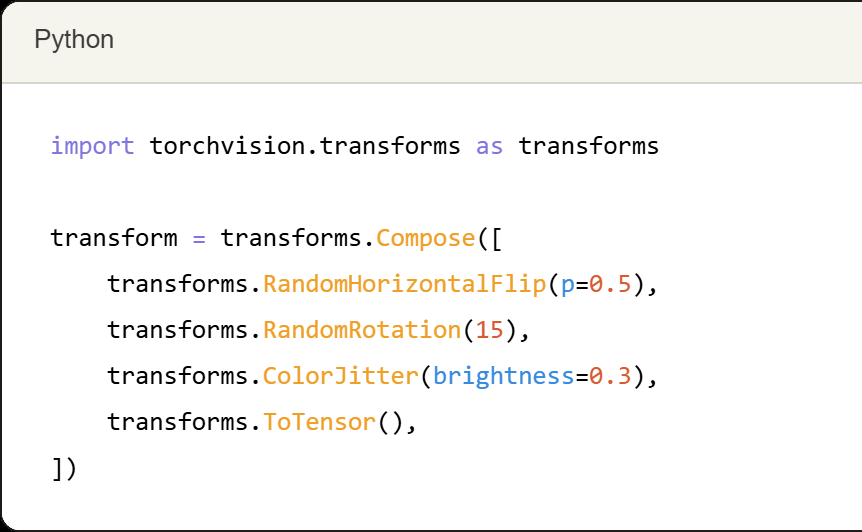
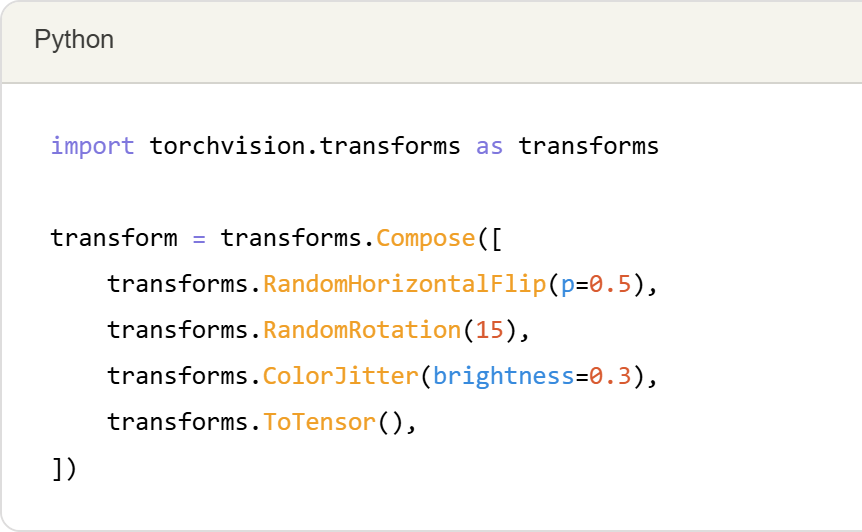
修正官方試題附圖擷取：套用透明遮罩，救回兩張全黑的公式圖
帶 SMask 的圖原本只存底圖，115-1 中級科目二第 2、8 題的公式因此整張是黑的。
擷取時改為合併遮罩並鋪白底；同卷科目三第 41 題的程式碼圖隨之改為白底，內容不變。

Changed region(s): [[0.0, 0.9624, 1.0, 1.0], [0.0, 0.0, 1.0, 0.0301]]

diff --git a/scripts/extract-official.py b/scripts/extract-official.py
@@ -151,9 +151,22 @@ def extract(path):
 
     def save_image(xref, stem_name):
         img = doc.extract_image(xref)
-        fname = f"{stem_name}.{img['ext']}"
+        data, ext = img["image"], img["ext"]
+        if img.get("smask"):
+            # 帶透明遮罩的圖（公式常見）：底圖可能整張是黑的，字形靠遮罩摳出來。
+            # 只存底圖會變成一塊黑，所以套上遮罩、鋪白底後存成 PNG（原尺寸，1pt = 1px）
+            # Pixmap(doc, xref) 可能帶著全不透明的 alpha 通道，遮罩並沒有套上，所以先拿掉再合併 SMask
+            base = pymupdf.Pixmap(doc, xref)
+            if base.alpha:
+                base = pymupdf.Pixmap(base, 0)
+            rgba = pymupdf.Pixmap(base, pymupdf.Pixmap(doc, img["smask"]))
+            tmp = pymupdf.open()
+            page = tmp.new_page(width=rgba.width, height=rgba.height)
+            page.insert_image(page.rect, pixmap=rgba)
+            data, ext = page.get_pixmap(alpha=False).tobytes("png"), "png"
+        fname = f"{stem_name}.{ext}"
         with open(os.path.join(OUT, "img", fname), "wb") as f:
-            f.write(img["image"])
+            f.write(data)
         return {"file": fname, "w": img["width"], "h": img["height"]}
 
     # 題組：「請根據下方資訊回答第 X～Y 題」之後到下一題之前的文字與圖片，為第 X～Y 題共用的情境。
